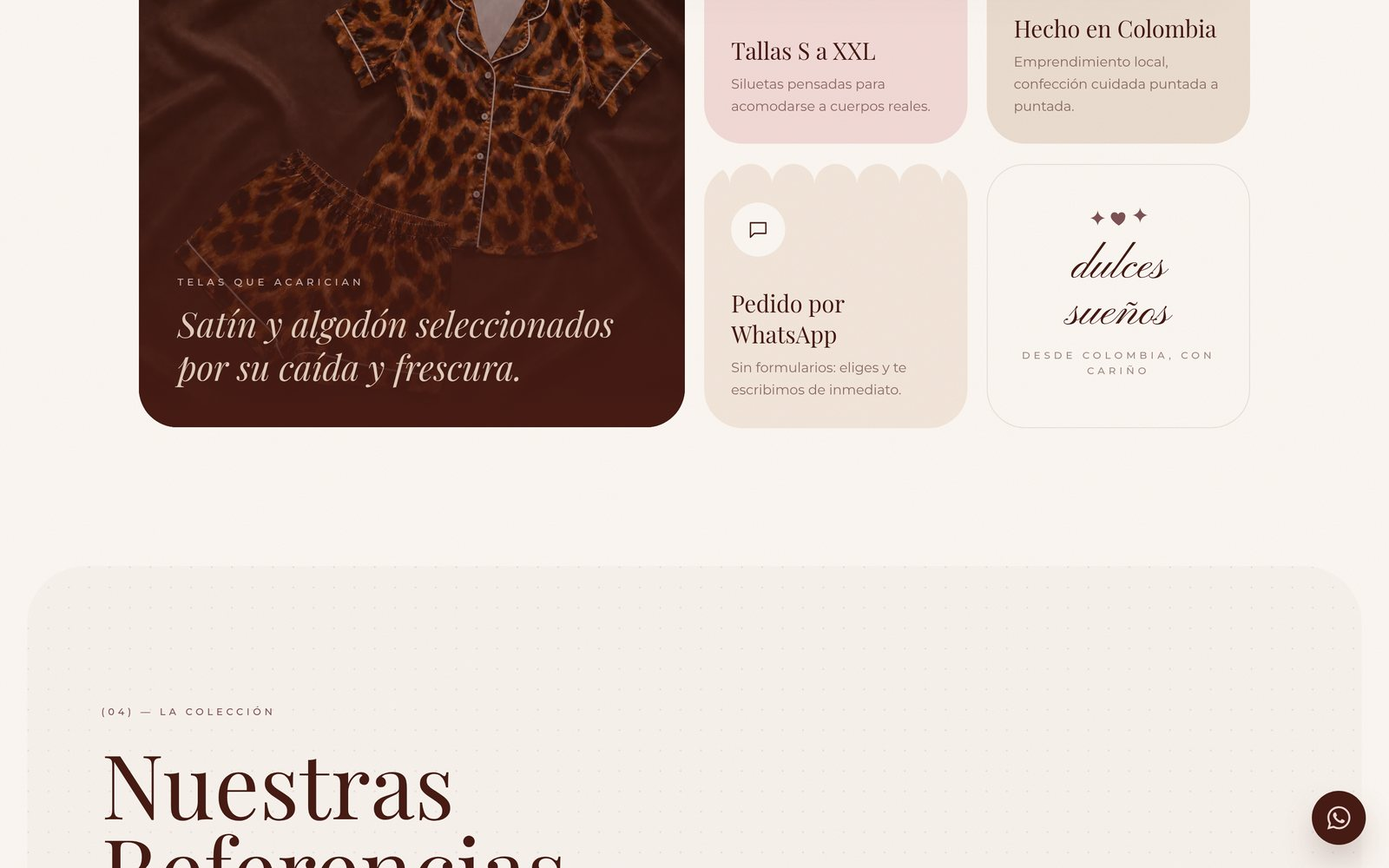
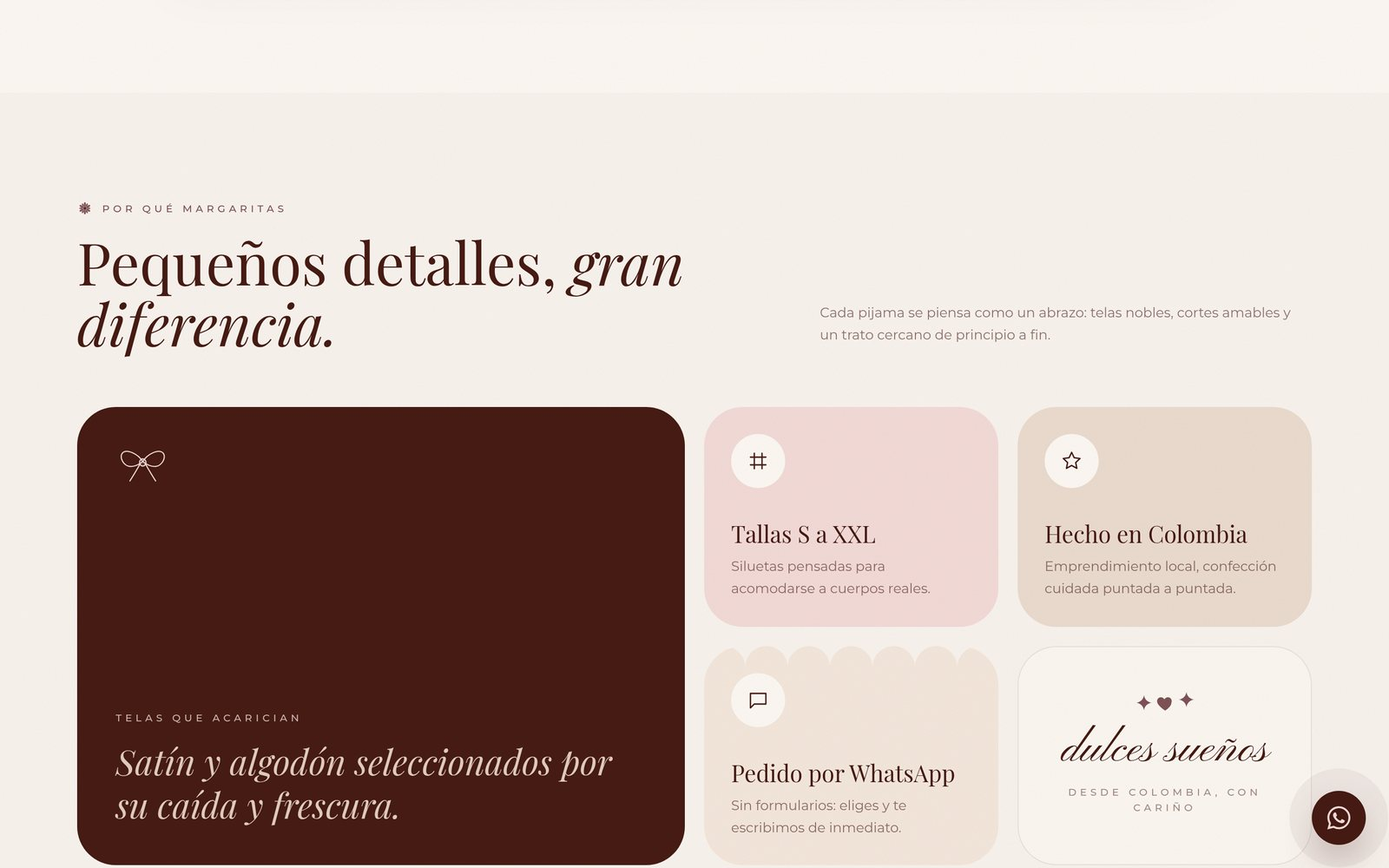
Margaritas: versión nueva en producción, enlace Margaritas.com y capturas actualizadas
Capturas de margaritas-black.vercel.app (inicio con la margarita animada,
esencia, por qué Margaritas, cómo pedir, preguntas y la tienda), botón
«Margaritas.com» que lleva a la web, textos y tecnologías al día (React 19,
Vite, Tailwind 4, Framer Motion, carrito con localStorage y WhatsApp).

diff --git a/margaritas/index.html b/margaritas/index.html
@@ -4,7 +4,7 @@
 <meta charset="utf-8">
 <meta name="viewport" content="width=device-width, initial-scale=1">
 <title>Margaritas · Gerard</title>
-<meta name="description" content="Margaritas: landing y tienda para una marca colombiana de pijamas. Rediseño con React, Vite, Tailwind CSS y Framer Motion.">
+<meta name="description" content="Margaritas (margaritas.com): landing y tienda para una marca colombiana de pijamas, con logo propio, carrito y pedido por WhatsApp. React 19, Vite, Tailwind 4 y Framer Motion.">
 <meta name="theme-color" content="#461b14">
 <meta property="og:title" content="Margaritas">
 <meta property="og:description" content="Un instante para volver a ti">
@@ -43,14 +43,15 @@
         <span class="pill"><span class="live"></span>Proyecto web · Landing y tienda</span>
         <h1 class="mgh1"><span class="sr">Margaritas</span><span class="mg-word" aria-hidden="true"><span class="mg-flower"><svg class="dz" viewBox="0 0 120 120" aria-hidden="true"><path d="M60 52C53.5 45 51 31 53.6 18.5c1.4-7 11.4-7 12.8 0C69 31 66.5 45 60 52z" fill="currentColor" transform="rotate(0 60 60) translate(60 60) scale(1) translate(-60 -60)"/><path d="M60 52C53.5 45 51 31 53.6 18.5c1.4-7 11.4-7 12.8 0C69 31 66.5 45 60 52z" fill="currentColor" transform="rotate(30 60 60) translate(60 60) scale(0.8) translate(-60 -60)"/><path d="M60 52C53.5 45 51 31 53.6 18.5c1.4-7 11.4-7 12.8 0C69 31 66.5 45 60 52z" fill="currentColor" transform="rotate(60 60 60) translate(60 60) scale(1) translate(-60 -60)"/><path d="M60 52C53.5 45 51 31 53.6 18.5c1.4-7 11.4-7 12.8 0C69 31 66.5 45 60 52z" fill="currentColor" transform="rotate(90 60 60) translate(60 60) scale(0.8) translate(-60 -60)"/><path d="M60 52C53.5 45 51 31 53.6 18.5c1.4-7 11.4-7 12.8 0C69 31 66.5 45 60 52z" fill="currentColor" transform="rotate(120 60 60) translate(60 60) scale(1) translate(-60 -60)"/><path d="M60 52C53.5 45 51 31 53.6 18.5c1.4-7 11.4-7 12.8 0C69 31 66.5 45 60 52z" fill="currentColor" transform="rotate(150 60 60) translate(60 60) scale(0.8) translate(-60 -60)"/><path d="M60 52C53.5 45 51 31 53.6 18.5c1.4-7 11.4-7 12.8 0C69 31 66.5 45 60 52z" fill="currentColor" transform="rotate(180 60 60) translate(60 60) scale(1) translate(-60 -60)"/><path d="M60 52C53.5 45 51 31 53.6 18.5c1.4-7 11.4-7 12.8 0C69 31 66.5 45 60 52z" fill="currentColor" transform="rotate(210 60 60) translate(60 60) scale(0.8) translate(-60 -60)"/><path d="M60 52C53.5 45 51 31 53.6 18.5c1.4-7 11.4-7 12.8 0C69 31 66.5 45 60 52z" fill="currentColor" transform="rotate(240 60 60) translate(60 60) scale(1) translate(-60 -60)"/><path d="M60 52C53.5 45 51 31 53.6 18.5c1.4-7 11.4-7 12.8 0C69 31 66.5 45 60 52z" fill="currentColor" transform="rotate(270 60 60) translate(60 60) scale(0.8) translate(-60 -60)"/><path d="M60 52C53.5 45 51 31 53.6 18.5c1.4-7 11.4-7 12.8 0C69 31 66.5 45 60 52z" fill="currentColor" transform="rotate(300 60 60) translate(60 60) scale(1) translate(-60 -60)"/><path d="M60 52C53.5 45 51 31 53.6 18.5c1.4-7 11.4-7 12.8 0C69 31 66.5 45 60 52z" fill="currentColor" transform="rotate(330 60 60) translate(60 60) scale(0.8) translate(-60 -60)"/><circle cx="60" cy="60" r="11" fill="#e0cbb9"/><circle cx="60" cy="60" r="11" fill="none" stroke="currentColor" stroke-width="2.4" stroke-dasharray="1.5 3.2"/></svg></span><span class="mg-letters"><span style="--i:0">M</span><span style="--i:1">A</span><span style="--i:2">R</span><span style="--i:3">G</span><span style="--i:4">A</span><span style="--i:5">R</span><span style="--i:6">I</span><span style="--i:7">T</span><span style="--i:8">A</span><span style="--i:9">S</span></span></span></h1>
         <p class="mg-script">Un instante para volver a ti</p>
-        <p class="mg-lead">Rediseñé la web de <b>Margaritas</b>, una marca colombiana de pijamas: una landing editorial con mucho movimiento y una tienda con carrito que envía el pedido por WhatsApp.</p>
+        <p class="mg-lead">Diseñé y programé la web de <b>Margaritas</b>, una marca colombiana de pijamas: una landing editorial con logo propio y una tienda con filtros y carrito que envía el pedido completo por WhatsApp.</p>
         <div class="btns">
-          <a class="btn main magnet" href="#capturas">Ver capturas</a>
-          <a class="btn" href="https://www.instagram.com/margaritas___col/" target="_blank" rel="noopener">Instagram de la marca ↗</a>
+          <a class="btn main magnet" href="https://margaritas-black.vercel.app/" target="_blank" rel="noopener">Margaritas.com ↗</a>
+          <a class="btn" href="#capturas">Ver capturas</a>
+          <a class="btn" href="https://www.instagram.com/margaritas___col/" target="_blank" rel="noopener">Instagram ↗</a>
         </div>
       </div>
       <div class="mg-devices" data-tilt>
-        <div class="mg-browser"><div class="bar"><i></i><i></i><i></i><span>margaritas</span></div><img src="../img/mg-1-hero.jpg" alt="Margaritas: Portada de la landing con el collage de pijamas" width="1600" height="1000" fetchpriority="high"></div>
+        <div class="mg-browser"><div class="bar"><i></i><i></i><i></i><span>margaritas.com</span></div><img src="../img/mg-1-hero.jpg" alt="Margaritas: Inicio con el titular «Un instante para volver a ti.» y la margarita animada" width="1600" height="1000" fetchpriority="high"></div>
         <div class="mg-phone"><img src="../img/mg-movil.jpg" alt="" width="600" height="1298"></div>
         <div class="chip c1"><span>🌼</span>Satín premium</div>
         <div class="chip c2"><span>🇨🇴</span>Hecho en Colombia</div>
@@ -69,7 +70,7 @@
         <h2 class="reveal" style="--d:.05s">Pijamas colombianas con <em>alma</em></h2>
         <p class="lead reveal" style="--d:0.10s"><b>Margaritas</b> es una marca colombiana de pijamas que une <b>feminidad, comodidad y elegancia</b>. Nace para acompañar esos momentos íntimos en los que el ruido se apaga y solo queda lo que importa: tu calma, tu cuerpo, tu forma de sentir.</p><p class="lead reveal" style="--d:0.15s">Trabaja con telas que acarician, como el <b>satín premium</b> y el <b>algodón fresco</b>, con siluetas pensadas para cuerpos reales, de la <b>S a la XXL</b>. Es un emprendimiento local: cada prenda se confecciona con cuidado, puntada a puntada, se pide por WhatsApp y se envía a toda Colombia.</p>
         <h4 class="mg-refs-t reveal">Sus referencias</h4>
-        <ul class="mg-refs reveal"><li><b>Samantha Satín</b><span>Satín con caída fluida y brillo suave</span></li><li><b>Samantha Algodón</b><span>Fresca y suave para el día a día</span></li><li><b>Geraldine</b><span>Blusa con detalles coquette</span></li><li><b>Accesorios</b><span>Scrunchies y gorros de satín</span></li></ul>
+        <ul class="mg-refs reveal"><li><b>Samantha Satín</b><span>Satín con caída fluida y brillo suave</span></li><li><b>Samantha Algodón</b><span>Fresca y suave para el día a día</span></li><li><b>Geraldine</b><span>Blusa con detalles coquette</span></li><li><b>Accesorios</b><span>Nuevos: scrunchies y gorro de satín</span></li></ul>
       </div>
       <div class="mg-arches reveal" style="--d:.1s"><figure class="mg-arch a1"><img src="../img/mg-p-animal.webp" alt="Samantha Satín" loading="lazy"><figcaption>Samantha Satín</figcaption></figure><figure class="mg-arch a2"><img src="../img/mg-p-geraldine.webp" alt="Geraldine" loading="lazy"><figcaption>Geraldine</figcaption></figure><figure class="mg-arch a3"><img src="../img/mg-p-algodon.webp" alt="Samantha Algodón" loading="lazy"><figcaption>Samantha Algodón</figcaption></figure><span class="mg-bow" aria-hidden="true">🎀</span></div>
     </div>
@@ -80,9 +81,9 @@
     <div class="wrap">
       <span class="kicker reveal">El proyecto</span>
       <h2 class="reveal" style="--d:.05s">Una web tan <em>delicada</em> como sus pijamas</h2>
-      <div class="stats" style="margin:30px 0 18px"><div class="stat reveal" style="--d:0.00s"><b data-count="3">0</b><span>referencias de pijama</span></div><div class="stat reveal" style="--d:0.08s"><b data-count="5">0</b><span>tallas, de la S a la XXL</span></div><div class="stat reveal" style="--d:0.16s"><b data-count="2">0</b><span>páginas: landing y tienda</span></div><div class="stat reveal" style="--d:0.24s"><b data-count="100" data-suffix=" %">0</b><span>responsiva</span></div></div>
-      <div class="feats"><div class="glowcard reveal" style="--d:0.00s"><div class="ic">🎀</div><h4>Diseño editorial</h4><p>Collage con parallax según el cursor, insignia giratoria, cintas cruzadas que responden al scroll y un manifiesto que se entinta palabra por palabra.</p></div><div class="glowcard reveal" style="--d:0.06s"><div class="ic">🛍</div><h4>Tienda completa</h4><p>Catálogo con filtros, orden, vista rápida de cada producto, galería por diseño de tela y preguntas frecuentes.</p></div><div class="glowcard reveal" style="--d:0.12s"><div class="ic">💬</div><h4>Pedido por WhatsApp</h4><p>Carrito que se guarda en el navegador y arma el mensaje con cada prenda, talla, cantidad y total. Sin formularios.</p></div><div class="glowcard reveal" style="--d:0.18s"><div class="ic">🌼</div><h4>Identidad de marca</h4><p>Isotipo de margarita de doce pétalos, wordmark en Playfair y versiones del logo para redes, etiquetas y empaques.</p></div><div class="glowcard reveal" style="--d:0.24s"><div class="ic">✨</div><h4>Animaciones</h4><p>Cortina de apertura con un moño dibujado, sección «Cómo pedir» con desplazamiento horizontal, tarjetas en 3D y cursor acompañante.</p></div><div class="glowcard reveal" style="--d:0.30s"><div class="ic">⚡</div><h4>Rápida y accesible</h4><p>Fotos optimizadas en WebP a varios tamaños y respeto por «reducir movimiento» en todo el sitio.</p></div></div>
-      <div class="tags reveal" style="margin-top:26px"><span class="tag">React 19</span><span class="tag">Vite</span><span class="tag">Tailwind CSS 4</span><span class="tag">Framer Motion</span><span class="tag">WhatsApp</span><span class="tag">Vercel</span></div>
+      <div class="stats" style="margin:30px 0 18px"><div class="stat reveal" style="--d:0.00s"><b data-count="3">0</b><span>referencias de pijama</span></div><div class="stat reveal" style="--d:0.08s"><b data-count="5">0</b><span>tallas, de la S a la XXL</span></div><div class="stat reveal" style="--d:0.16s"><b data-count="2">0</b><span>páginas: landing y tienda</span></div><div class="stat reveal" style="--d:0.24s"><b data-count="2">0</b><span>accesorios nuevos</span></div></div>
+      <div class="feats"><div class="glowcard reveal" style="--d:0.00s"><div class="ic">🎀</div><h4>Diseño editorial</h4><p>El inicio no usa foto: muestra el titular «Un instante para volver a ti.» con la margarita del logo animada, y un manifiesto que se entinta palabra por palabra.</p></div><div class="glowcard reveal" style="--d:0.06s"><div class="ic">🛍</div><h4>Tienda propia</h4><p>La compra vive en su propia página (/tienda): catálogo con filtros, orden, vista rápida, galería por diseño de tela, accesorios y precios nuevos.</p></div><div class="glowcard reveal" style="--d:0.12s"><div class="ic">💬</div><h4>Pedido por WhatsApp</h4><p>Carrito guardado en el navegador (localStorage) que arma el pedido completo con cada prenda, talla, cantidad y total. Sin pasarela de pagos ni formularios.</p></div><div class="glowcard reveal" style="--d:0.18s"><div class="ic">🌼</div><h4>Logo propio</h4><p>Una margarita de doce pétalos junto al wordmark MARGARITAS, con versiones para redes, sello, ícono y empaques.</p></div><div class="glowcard reveal" style="--d:0.24s"><div class="ic">🧵</div><h4>Guía de telas y preguntas</h4><p>«Por qué Margaritas» explica cada tela, y las preguntas frecuentes resuelven tiempos de despacho, tallas y colores.</p></div><div class="glowcard reveal" style="--d:0.30s"><div class="ic">✨</div><h4>Animada y accesible</h4><p>Cintas que responden al scroll, «Cómo pedir» en horizontal, tarjetas en 3D, fotos en WebP y respeto por «reducir movimiento».</p></div></div>
+      <div class="tags reveal" style="margin-top:26px"><span class="tag">React 19</span><span class="tag">Vite</span><span class="tag">Tailwind CSS 4</span><span class="tag">Framer Motion</span><span class="tag">Carrito con localStorage</span><span class="tag">Pedido por WhatsApp</span></div>
     </div>
   </section>
 
@@ -90,8 +91,8 @@
     <div class="wrap">
       <span class="kicker reveal">Capturas</span>
       <h2 class="reveal" style="--d:.05s">Así se ve</h2>
-      <p class="lead reveal" style="--d:.1s">La landing, la tienda y la versión para móvil. Desliza para ver más.</p>
-      <div class="shots land reveal" style="--d:.15s"><img src="../img/mg-1-hero.jpg" alt="Margaritas: Portada de la landing con el collage de pijamas" loading="lazy" width="1600" height="1000"><img src="../img/mg-2-tienda.jpg" alt="Margaritas: La tienda con el catálogo y los filtros" loading="lazy" width="1600" height="1000"><img src="../img/mg-3-pedir.jpg" alt="Margaritas: Sección «Así de fácil» con los pasos para pedir" loading="lazy" width="1600" height="1000"><img src="../img/mg-4-detalles.jpg" alt="Margaritas: Beneficios de la marca en tarjetas" loading="lazy" width="1600" height="1000"><img src="../img/mg-5-esencia.jpg" alt="Margaritas: Manifiesto de la marca" loading="lazy" width="1600" height="1000"><img class="tall" src="../img/mg-movil.jpg" alt="" loading="lazy" width="600" height="1298"><img class="tall" src="../img/mg-movil-tienda.jpg" alt="" loading="lazy" width="600" height="1298"></div>
+      <p class="lead reveal" style="--d:.1s">La landing (Inicio, Nuestra esencia, Por qué Margaritas, Cómo pedir y Preguntas frecuentes), la tienda y el móvil. Desliza para ver más, o <a href="https://margaritas-black.vercel.app/" target="_blank" rel="noopener">visítala en margaritas.com ↗</a>.</p>
+      <div class="shots land reveal" style="--d:.15s"><img src="../img/mg-1-hero.jpg" alt="Margaritas: Inicio con el titular «Un instante para volver a ti.» y la margarita animada" loading="lazy" width="1600" height="1000"><img src="../img/mg-2-tienda.jpg" alt="Margaritas: La tienda con el catálogo y los filtros" loading="lazy" width="1600" height="1000"><img src="../img/mg-3-pedir.jpg" alt="Margaritas: Sección «Así de fácil» con los pasos para pedir" loading="lazy" width="1600" height="1000"><img src="../img/mg-4-detalles.jpg" alt="Margaritas: «Por qué Margaritas», con la guía de telas" loading="lazy" width="1600" height="1000"><img src="../img/mg-5-esencia.jpg" alt="Margaritas: Nuestra esencia" loading="lazy" width="1600" height="1000"><img src="../img/mg-6-preguntas.jpg" alt="Margaritas: Preguntas frecuentes" loading="lazy" width="1600" height="1000"><img class="tall" src="../img/mg-movil.jpg" alt="" loading="lazy" width="600" height="1298"><img class="tall" src="../img/mg-movil-tienda.jpg" alt="" loading="lazy" width="600" height="1298"></div>
     </div>
   </section>
 

diff --git a/en/margaritas/index.html b/en/margaritas/index.html
@@ -4,7 +4,7 @@
 <meta charset="utf-8">
 <meta name="viewport" content="width=device-width, initial-scale=1">
 <title>Margaritas · Gerard</title>
-<meta name="description" content="Margaritas: landing page and shop for a Colombian pajama brand. Redesign built with React, Vite, Tailwind CSS and Framer Motion.">
+<meta name="description" content="Margaritas (margaritas.com): landing page and shop for a Colombian pajama brand, with its own logo, a cart and WhatsApp orders. React 19, Vite, Tailwind 4 and Framer Motion.">
 <meta name="theme-color" content="#461b14">
 <meta property="og:title" content="Margaritas">
 <meta property="og:description" content="A moment to come back to yourself">
@@ -43,14 +43,15 @@
         <span class="pill"><span class="live"></span>Web project · Landing &amp; shop</span>
         <h1 class="mgh1"><span class="sr">Margaritas</span><span class="mg-word" aria-hidden="true"><span class="mg-flower"><svg class="dz" viewBox="0 0 120 120" aria-hidden="true"><path d="M60 52C53.5 45 51 31 53.6 18.5c1.4-7 11.4-7 12.8 0C69 31 66.5 45 60 52z" fill="currentColor" transform="rotate(0 60 60) translate(60 60) scale(1) translate(-60 -60)"/><path d="M60 52C53.5 45 51 31 53.6 18.5c1.4-7 11.4-7 12.8 0C69 31 66.5 45 60 52z" fill="currentColor" transform="rotate(30 60 60) translate(60 60) scale(0.8) translate(-60 -60)"/><path d="M60 52C53.5 45 51 31 53.6 18.5c1.4-7 11.4-7 12.8 0C69 31 66.5 45 60 52z" fill="currentColor" transform="rotate(60 60 60) translate(60 60) scale(1) translate(-60 -60)"/><path d="M60 52C53.5 45 51 31 53.6 18.5c1.4-7 11.4-7 12.8 0C69 31 66.5 45 60 52z" fill="currentColor" transform="rotate(90 60 60) translate(60 60) scale(0.8) translate(-60 -60)"/><path d="M60 52C53.5 45 51 31 53.6 18.5c1.4-7 11.4-7 12.8 0C69 31 66.5 45 60 52z" fill="currentColor" transform="rotate(120 60 60) translate(60 60) scale(1) translate(-60 -60)"/><path d="M60 52C53.5 45 51 31 53.6 18.5c1.4-7 11.4-7 12.8 0C69 31 66.5 45 60 52z" fill="currentColor" transform="rotate(150 60 60) translate(60 60) scale(0.8) translate(-60 -60)"/><path d="M60 52C53.5 45 51 31 53.6 18.5c1.4-7 11.4-7 12.8 0C69 31 66.5 45 60 52z" fill="currentColor" transform="rotate(180 60 60) translate(60 60) scale(1) translate(-60 -60)"/><path d="M60 52C53.5 45 51 31 53.6 18.5c1.4-7 11.4-7 12.8 0C69 31 66.5 45 60 52z" fill="currentColor" transform="rotate(210 60 60) translate(60 60) scale(0.8) translate(-60 -60)"/><path d="M60 52C53.5 45 51 31 53.6 18.5c1.4-7 11.4-7 12.8 0C69 31 66.5 45 60 52z" fill="currentColor" transform="rotate(240 60 60) translate(60 60) scale(1) translate(-60 -60)"/><path d="M60 52C53.5 45 51 31 53.6 18.5c1.4-7 11.4-7 12.8 0C69 31 66.5 45 60 52z" fill="currentColor" transform="rotate(270 60 60) translate(60 60) scale(0.8) translate(-60 -60)"/><path d="M60 52C53.5 45 51 31 53.6 18.5c1.4-7 11.4-7 12.8 0C69 31 66.5 45 60 52z" fill="currentColor" transform="rotate(300 60 60) translate(60 60) scale(1) translate(-60 -60)"/><path d="M60 52C53.5 45 51 31 53.6 18.5c1.4-7 11.4-7 12.8 0C69 31 66.5 45 60 52z" fill="currentColor" transform="rotate(330 60 60) translate(60 60) scale(0.8) translate(-60 -60)"/><circle cx="60" cy="60" r="11" fill="#e0cbb9"/><circle cx="60" cy="60" r="11" fill="none" stroke="currentColor" stroke-width="2.4" stroke-dasharray="1.5 3.2"/></svg></span><span class="mg-letters"><span style="--i:0">M</span><span style="--i:1">A</span><span style="--i:2">R</span><span style="--i:3">G</span><span style="--i:4">A</span><span style="--i:5">R</span><span style="--i:6">I</span><span style="--i:7">T</span><span style="--i:8">A</span><span style="--i:9">S</span></span></span></h1>
         <p class="mg-script">A moment to come back to yourself</p>
-        <p class="mg-lead">I redesigned the website of <b>Margaritas</b>, a Colombian pajama brand: an editorial landing page full of motion and a shop with a cart that sends the order through WhatsApp.</p>
+        <p class="mg-lead">I designed and built the website of <b>Margaritas</b>, a Colombian pajama brand: an editorial landing page with its own logo and a shop with filters and a cart that sends the full order through WhatsApp.</p>
         <div class="btns">
-          <a class="btn main magnet" href="#capturas">See screenshots</a>
-          <a class="btn" href="https://www.instagram.com/margaritas___col/" target="_blank" rel="noopener">Brand Instagram ↗</a>
+          <a class="btn main magnet" href="https://margaritas-black.vercel.app/" target="_blank" rel="noopener">Margaritas.com ↗</a>
+          <a class="btn" href="#capturas">See screenshots</a>
+          <a class="btn" href="https://www.instagram.com/margaritas___col/" target="_blank" rel="noopener">Instagram ↗</a>
         </div>
       </div>
       <div class="mg-devices" data-tilt>
-        <div class="mg-browser"><div class="bar"><i></i><i></i><i></i><span>margaritas</span></div><img src="../../img/mg-1-hero.jpg" alt="Margaritas: Landing page hero with the pajama collage" width="1600" height="1000" fetchpriority="high"></div>
+        <div class="mg-browser"><div class="bar"><i></i><i></i><i></i><span>margaritas.com</span></div><img src="../../img/mg-1-hero.jpg" alt="Margaritas: Home with the headline “A moment to come back to yourself.” and the animated daisy" width="1600" height="1000" fetchpriority="high"></div>
         <div class="mg-phone"><img src="../../img/mg-movil.jpg" alt="" width="600" height="1298"></div>
         <div class="chip c1"><span>🌼</span>Premium satin</div>
         <div class="chip c2"><span>🇨🇴</span>Made in Colombia</div>
@@ -69,7 +70,7 @@
         <h2 class="reveal" style="--d:.05s">Colombian pajamas with <em>soul</em></h2>
         <p class="lead reveal" style="--d:0.10s"><b>Margaritas</b> is a Colombian pajama brand that brings together <b>femininity, comfort and elegance</b>. It was born to accompany those intimate moments when the noise fades and only what matters remains: your calm, your body, the way you feel.</p><p class="lead reveal" style="--d:0.15s">It works with fabrics that caress, like <b>premium satin</b> and <b>fresh cotton</b>, in silhouettes designed for real bodies, from <b>S to XXL</b>. It is a local business: every piece is carefully sewn, stitch by stitch, ordered through WhatsApp and shipped all over Colombia.</p>
         <h4 class="mg-refs-t reveal">Its styles</h4>
-        <ul class="mg-refs reveal"><li><b>Samantha Satín</b><span>Satin with a fluid drape and soft sheen</span></li><li><b>Samantha Algodón</b><span>Fresh and soft for every day</span></li><li><b>Geraldine</b><span>Blouse with coquette details</span></li><li><b>Accessories</b><span>Satin scrunchies and bonnets</span></li></ul>
+        <ul class="mg-refs reveal"><li><b>Samantha Satín</b><span>Satin with a fluid drape and soft sheen</span></li><li><b>Samantha Algodón</b><span>Fresh and soft for every day</span></li><li><b>Geraldine</b><span>Blouse with coquette details</span></li><li><b>Accessories</b><span>New: satin scrunchies and bonnet</span></li></ul>
       </div>
       <div class="mg-arches reveal" style="--d:.1s"><figure class="mg-arch a1"><img src="../../img/mg-p-animal.webp" alt="Samantha Satín" loading="lazy"><figcaption>Samantha Satín</figcaption></figure><figure class="mg-arch a2"><img src="../../img/mg-p-geraldine.webp" alt="Geraldine" loading="lazy"><figcaption>Geraldine</figcaption></figure><figure class="mg-arch a3"><img src="../../img/mg-p-algodon.webp" alt="Samantha Algodón" loading="lazy"><figcaption>Samantha Algodón</figcaption></figure><span class="mg-bow" aria-hidden="true">🎀</span></div>
     </div>
@@ -80,9 +81,9 @@
     <div class="wrap">
       <span class="kicker reveal">The project</span>
       <h2 class="reveal" style="--d:.05s">A website as <em>delicate</em> as its pajamas</h2>
-      <div class="stats" style="margin:30px 0 18px"><div class="stat reveal" style="--d:0.00s"><b data-count="3">0</b><span>pajama styles</span></div><div class="stat reveal" style="--d:0.08s"><b data-count="5">0</b><span>sizes, from S to XXL</span></div><div class="stat reveal" style="--d:0.16s"><b data-count="2">0</b><span>pages: landing and shop</span></div><div class="stat reveal" style="--d:0.24s"><b data-count="100" data-suffix=" %">0</b><span>responsive</span></div></div>
-      <div class="feats"><div class="glowcard reveal" style="--d:0.00s"><div class="ic">🎀</div><h4>Editorial design</h4><p>Collage with cursor parallax, a spinning badge, crossed ribbons that react to scrolling and a manifesto that inks in word by word.</p></div><div class="glowcard reveal" style="--d:0.06s"><div class="ic">🛍</div><h4>Full shop</h4><p>Catalogue with filters, sorting, a quick view of each product, galleries per fabric design and FAQs.</p></div><div class="glowcard reveal" style="--d:0.12s"><div class="ic">💬</div><h4>WhatsApp orders</h4><p>A cart saved in the browser that builds the message with every item, size, quantity and total. No forms.</p></div><div class="glowcard reveal" style="--d:0.18s"><div class="ic">🌼</div><h4>Brand identity</h4><p>A twelve-petal daisy mark, a Playfair wordmark and logo versions for social media, labels and packaging.</p></div><div class="glowcard reveal" style="--d:0.24s"><div class="ic">✨</div><h4>Animations</h4><p>An opening curtain with a hand-drawn bow, a horizontally scrolling “How to order” section, 3D cards and a companion cursor.</p></div><div class="glowcard reveal" style="--d:0.30s"><div class="ic">⚡</div><h4>Fast and accessible</h4><p>Photos optimised as WebP in several sizes, and “reduce motion” respected across the whole site.</p></div></div>
-      <div class="tags reveal" style="margin-top:26px"><span class="tag">React 19</span><span class="tag">Vite</span><span class="tag">Tailwind CSS 4</span><span class="tag">Framer Motion</span><span class="tag">WhatsApp</span><span class="tag">Vercel</span></div>
+      <div class="stats" style="margin:30px 0 18px"><div class="stat reveal" style="--d:0.00s"><b data-count="3">0</b><span>pajama styles</span></div><div class="stat reveal" style="--d:0.08s"><b data-count="5">0</b><span>sizes, from S to XXL</span></div><div class="stat reveal" style="--d:0.16s"><b data-count="2">0</b><span>pages: landing and shop</span></div><div class="stat reveal" style="--d:0.24s"><b data-count="2">0</b><span>new accessories</span></div></div>
+      <div class="feats"><div class="glowcard reveal" style="--d:0.00s"><div class="ic">🎀</div><h4>Editorial design</h4><p>The home page has no photo: it shows the headline “A moment to come back to yourself.” with the animated daisy from the logo, and a manifesto that inks in word by word.</p></div><div class="glowcard reveal" style="--d:0.06s"><div class="ic">🛍</div><h4>Its own shop</h4><p>Shopping lives on its own page (/tienda): catalogue with filters, sorting, quick view, galleries per fabric design, accessories and new prices.</p></div><div class="glowcard reveal" style="--d:0.12s"><div class="ic">💬</div><h4>WhatsApp orders</h4><p>A cart saved in the browser (localStorage) that builds the full order with every item, size, quantity and total. No payment gateway, no forms.</p></div><div class="glowcard reveal" style="--d:0.18s"><div class="ic">🌼</div><h4>Its own logo</h4><p>A twelve-petal daisy next to the MARGARITAS wordmark, with versions for social media, seal, icon and packaging.</p></div><div class="glowcard reveal" style="--d:0.24s"><div class="ic">🧵</div><h4>Fabric guide and FAQ</h4><p>“Why Margaritas” explains each fabric, and the FAQ covers shipping times, sizes and colours.</p></div><div class="glowcard reveal" style="--d:0.30s"><div class="ic">✨</div><h4>Animated and accessible</h4><p>Ribbons that react to scrolling, a horizontal “How to order”, 3D cards, WebP photos and “reduce motion” respected.</p></div></div>
+      <div class="tags reveal" style="margin-top:26px"><span class="tag">React 19</span><span class="tag">Vite</span><span class="tag">Tailwind CSS 4</span><span class="tag">Framer Motion</span><span class="tag">localStorage cart</span><span class="tag">WhatsApp orders</span></div>
     </div>
   </section>
 
@@ -90,8 +91,8 @@
     <div class="wrap">
       <span class="kicker reveal">Screenshots</span>
       <h2 class="reveal" style="--d:.05s">How it looks</h2>
-      <p class="lead reveal" style="--d:.1s">The landing page, the shop and the mobile version. Swipe to see more.</p>
-      <div class="shots land reveal" style="--d:.15s"><img src="../../img/mg-1-hero.jpg" alt="Margaritas: Landing page hero with the pajama collage" loading="lazy" width="1600" height="1000"><img src="../../img/mg-2-tienda.jpg" alt="Margaritas: The shop with the catalogue and filters" loading="lazy" width="1600" height="1000"><img src="../../img/mg-3-pedir.jpg" alt="Margaritas: “How to order” section with the steps" loading="lazy" width="1600" height="1000"><img src="../../img/mg-4-detalles.jpg" alt="Margaritas: Brand benefits in cards" loading="lazy" width="1600" height="1000"><img src="../../img/mg-5-esencia.jpg" alt="Margaritas: Brand manifesto" loading="lazy" width="1600" height="1000"><img class="tall" src="../../img/mg-movil.jpg" alt="" loading="lazy" width="600" height="1298"><img class="tall" src="../../img/mg-movil-tienda.jpg" alt="" loading="lazy" width="600" height="1298"></div>
+      <p class="lead reveal" style="--d:.1s">The landing page (Home, Our essence, Why Margaritas, How to order and FAQ), the shop and mobile. Swipe to see more, or <a href="https://margaritas-black.vercel.app/" target="_blank" rel="noopener">visit it at margaritas.com ↗</a>.</p>
+      <div class="shots land reveal" style="--d:.15s"><img src="../../img/mg-1-hero.jpg" alt="Margaritas: Home with the headline “A moment to come back to yourself.” and the animated daisy" loading="lazy" width="1600" height="1000"><img src="../../img/mg-2-tienda.jpg" alt="Margaritas: The shop with the catalogue and filters" loading="lazy" width="1600" height="1000"><img src="../../img/mg-3-pedir.jpg" alt="Margaritas: “How to order” section with the steps" loading="lazy" width="1600" height="1000"><img src="../../img/mg-4-detalles.jpg" alt="Margaritas: “Why Margaritas”, with the fabric guide" loading="lazy" width="1600" height="1000"><img src="../../img/mg-5-esencia.jpg" alt="Margaritas: Our essence" loading="lazy" width="1600" height="1000"><img src="../../img/mg-6-preguntas.jpg" alt="Margaritas: FAQ" loading="lazy" width="1600" height="1000"><img class="tall" src="../../img/mg-movil.jpg" alt="" loading="lazy" width="600" height="1298"><img class="tall" src="../../img/mg-movil-tienda.jpg" alt="" loading="lazy" width="600" height="1298"></div>
     </div>
   </section>
 

diff --git a/index.html b/index.html
@@ -127,7 +127,7 @@
       <article class="proj proj-mg">
       <div class="showcase desk mg-show">
         <a class="hero-card mg-card reveal" href="margaritas/" data-tilt aria-label="Margaritas">
-          <div class="mg-browser"><div class="bar"><i></i><i></i><i></i><span>margaritas</span></div><img src="img/mg-1-hero.jpg" alt="Margaritas" width="1600" height="1000" loading="lazy" decoding="async"></div>
+          <div class="mg-browser"><div class="bar"><i></i><i></i><i></i><span>margaritas.com</span></div><img src="img/mg-1-hero.jpg" alt="Margaritas" width="1600" height="1000" loading="lazy" decoding="async"></div>
           <div class="mg-phone"><img src="img/mg-movil.jpg" alt="" width="600" height="1298" loading="lazy" decoding="async"></div>
           <div class="chip c1"><span>🌼</span>Pijamas con alma</div>
           <div class="chip c2"><span>🇨🇴</span>Hecho en Colombia</div>
@@ -135,10 +135,10 @@
         <div class="show-txt reveal" style="--d:.1s">
           <span class="tag mgtag">Proyecto web · Marca colombiana</span>
           <h3 class="mgh3"><span class="sr">Margaritas</span><picture><source srcset="img/mg-logo-claro.svg" media="(prefers-color-scheme: dark)"><img src="img/mg-logo.svg" alt="" class="mg-logo-h"></picture></h3>
-          <p>Landing y tienda para Margaritas, una marca colombiana de pijamas que une feminidad, comodidad y elegancia. Diseño editorial con mucho movimiento y pedidos por WhatsApp.</p>
-          <ul class="ticks"><li>Landing editorial con collage en parallax, cintas y textos que se entintan al hacer scroll</li><li>Tienda con filtros, vista rápida y carrito que arma el pedido por WhatsApp</li><li>Identidad de marca: isotipo de margarita, paleta y versiones del logo</li></ul>
-          <div class="tags"><span class="tag">Landing</span><span class="tag">Tienda</span><span class="tag">Moda</span><span class="tag">Colombia</span></div>
-          <div class="btns"><a class="btn main magnet" href="margaritas/">Ver el proyecto <svg viewBox="0 0 24 24" fill="none" stroke="currentColor" stroke-width="2.4" stroke-linecap="round" stroke-linejoin="round"><path d="M5 12h14M13 6l6 6-6 6"/></svg></a></div>
+          <p>La web de Margaritas, una marca colombiana de pijamas que une feminidad, comodidad y elegancia: landing editorial con logo propio y una tienda con carrito y pedido por WhatsApp.</p>
+          <ul class="ticks"><li>Logo propio: una margarita de 12 pétalos animada junto al nombre</li><li>Tienda propia con filtros, accesorios y carrito que arma el pedido por WhatsApp</li><li>Esencia, guía de telas, cómo pedir y preguntas frecuentes</li></ul>
+          <div class="tags"><span class="tag">React 19</span><span class="tag">Tailwind 4</span><span class="tag">Framer Motion</span><span class="tag">WhatsApp</span></div>
+          <div class="btns"><a class="btn main magnet" href="margaritas/">Ver el proyecto <svg viewBox="0 0 24 24" fill="none" stroke="currentColor" stroke-width="2.4" stroke-linecap="round" stroke-linejoin="round"><path d="M5 12h14M13 6l6 6-6 6"/></svg></a><a class="btn magnet" href="https://margaritas-black.vercel.app/" target="_blank" rel="noopener">Margaritas.com</a></div>
         </div>
       </div>
       </article>

diff --git a/en/index.html b/en/index.html
@@ -127,7 +127,7 @@
       <article class="proj proj-mg">
       <div class="showcase desk mg-show">
         <a class="hero-card mg-card reveal" href="margaritas/" data-tilt aria-label="Margaritas">
-          <div class="mg-browser"><div class="bar"><i></i><i></i><i></i><span>margaritas</span></div><img src="../img/mg-1-hero.jpg" alt="Margaritas" width="1600" height="1000" loading="lazy" decoding="async"></div>
+          <div class="mg-browser"><div class="bar"><i></i><i></i><i></i><span>margaritas.com</span></div><img src="../img/mg-1-hero.jpg" alt="Margaritas" width="1600" height="1000" loading="lazy" decoding="async"></div>
           <div class="mg-phone"><img src="../img/mg-movil.jpg" alt="" width="600" height="1298" loading="lazy" decoding="async"></div>
           <div class="chip c1"><span>🌼</span>Pajamas with soul</div>
           <div class="chip c2"><span>🇨🇴</span>Made in Colombia</div>
@@ -135,10 +135,10 @@
         <div class="show-txt reveal" style="--d:.1s">
           <span class="tag mgtag">Web project · Colombian brand</span>
           <h3 class="mgh3"><span class="sr">Margaritas</span><picture><source srcset="../img/mg-logo-claro.svg" media="(prefers-color-scheme: dark)"><img src="../img/mg-logo.svg" alt="" class="mg-logo-h"></picture></h3>
-          <p>Landing page and shop for Margaritas, a Colombian pajama brand that brings together femininity, comfort and elegance. Editorial design full of motion and WhatsApp orders.</p>
-          <ul class="ticks"><li>Editorial landing with a parallax collage, ribbons and text that inks in on scroll</li><li>Shop with filters, quick view and a cart that builds the order for WhatsApp</li><li>Brand identity: daisy mark, palette and logo versions</li></ul>
-          <div class="tags"><span class="tag">Landing</span><span class="tag">Shop</span><span class="tag">Fashion</span><span class="tag">Colombia</span></div>
-          <div class="btns"><a class="btn main magnet" href="margaritas/">See the project <svg viewBox="0 0 24 24" fill="none" stroke="currentColor" stroke-width="2.4" stroke-linecap="round" stroke-linejoin="round"><path d="M5 12h14M13 6l6 6-6 6"/></svg></a></div>
+          <p>The website of Margaritas, a Colombian pajama brand that brings together femininity, comfort and elegance: an editorial landing page with its own logo and a shop with a cart and WhatsApp orders.</p>
+          <ul class="ticks"><li>Its own logo: an animated twelve-petal daisy next to the name</li><li>Its own shop with filters, accessories and a cart that builds the WhatsApp order</li><li>Essence, fabric guide, how to order and FAQ</li></ul>
+          <div class="tags"><span class="tag">React 19</span><span class="tag">Tailwind 4</span><span class="tag">Framer Motion</span><span class="tag">WhatsApp</span></div>
+          <div class="btns"><a class="btn main magnet" href="margaritas/">See the project <svg viewBox="0 0 24 24" fill="none" stroke="currentColor" stroke-width="2.4" stroke-linecap="round" stroke-linejoin="round"><path d="M5 12h14M13 6l6 6-6 6"/></svg></a><a class="btn magnet" href="https://margaritas-black.vercel.app/" target="_blank" rel="noopener">Margaritas.com</a></div>
         </div>
       </div>
       </article>
